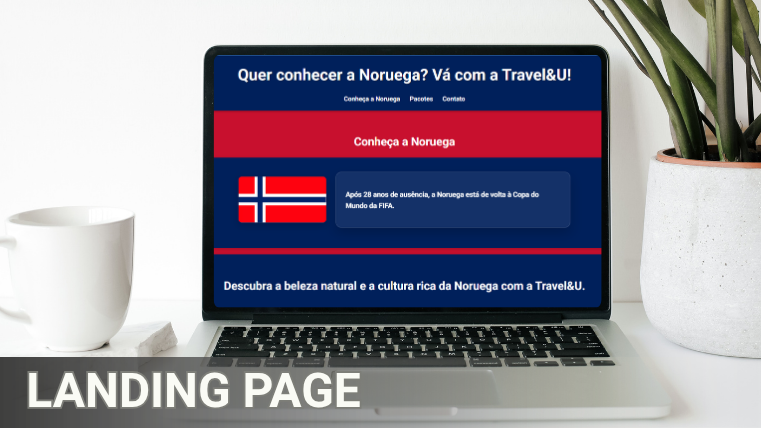
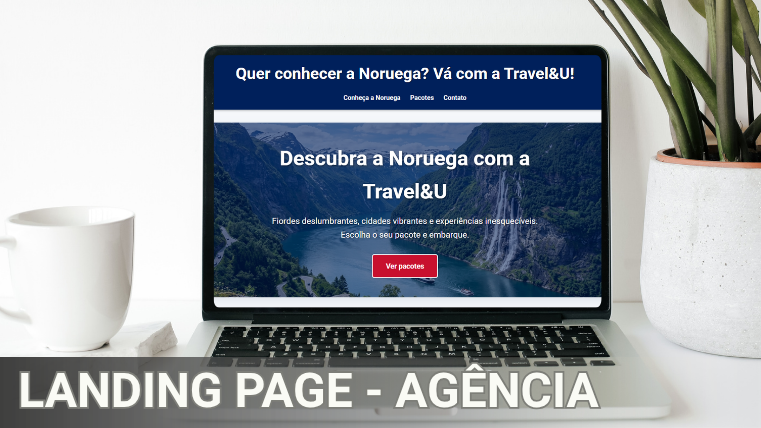
Adição de links do GitPages

Changed region(s): [[0.272, 0.1519, 0.816, 0.729], [0.0, 0.8505, 0.7858, 0.972]]

diff --git a/index.html b/index.html
@@ -126,10 +126,10 @@
             <div id="projetos">
                 <div class="title">Projetos</div>
                 <div id="galeria_projetos">
-                    <a href="https://github.com/fernandonavarrost-cpu/projeto-todo-list" target="_blank"><img src="./public/images/projetos-todo-List.png" alt="projeto To-do-List"/></a>
-                    <a href="https://github.com/fernandonavarrost-cpu/projeto_login" target="_blank"><img src="./public/images/projetos-login.png" alt="projeto página de login"/></a>
-                    <a href="https://github.com/fernandonavarrost-cpu/landing-page-noruega" target="_blank"><img src="./public/images/projetos-landingpage.png" alt="projeto landing page de uma agencia de viagens"/></a>
-                    <a href="https://github.com/fernandonavarrost-cpu/pagina_de_ecommerce" target="_blank"><img src="./public/images/projetos-ecommerce.png" alt="projeto e-commerce"/></a>
+                    <a href="https://fernandonavarrost-cpu.github.io/projeto-todo-list/" target="_blank"><img src="./public/images/projetos-todo-List.png" alt="projeto To-do-List"/></a>
+                    <a href="https://fernandonavarrost-cpu.github.io/projeto_login/" target="_blank"><img src="./public/images/projetos-login.png" alt="projeto página de login"/></a>
+                    <a href="https://fernandonavarrost-cpu.github.io/landing-page-agencia_de_viagens/" target="_blank"><img src="./public/images/projetos-landingpage.png" alt="projeto landing page de uma agencia de viagens"/></a>
+                    <a href="https://fernandonavarrost-cpu.github.io/shespeaks/" target="_blank"><img src="./public/images/projetos-shespeaks.png" alt="projeto landing page de um curso de inglês"/></a>
                 </div>
             </div>
             <div id="contato">
